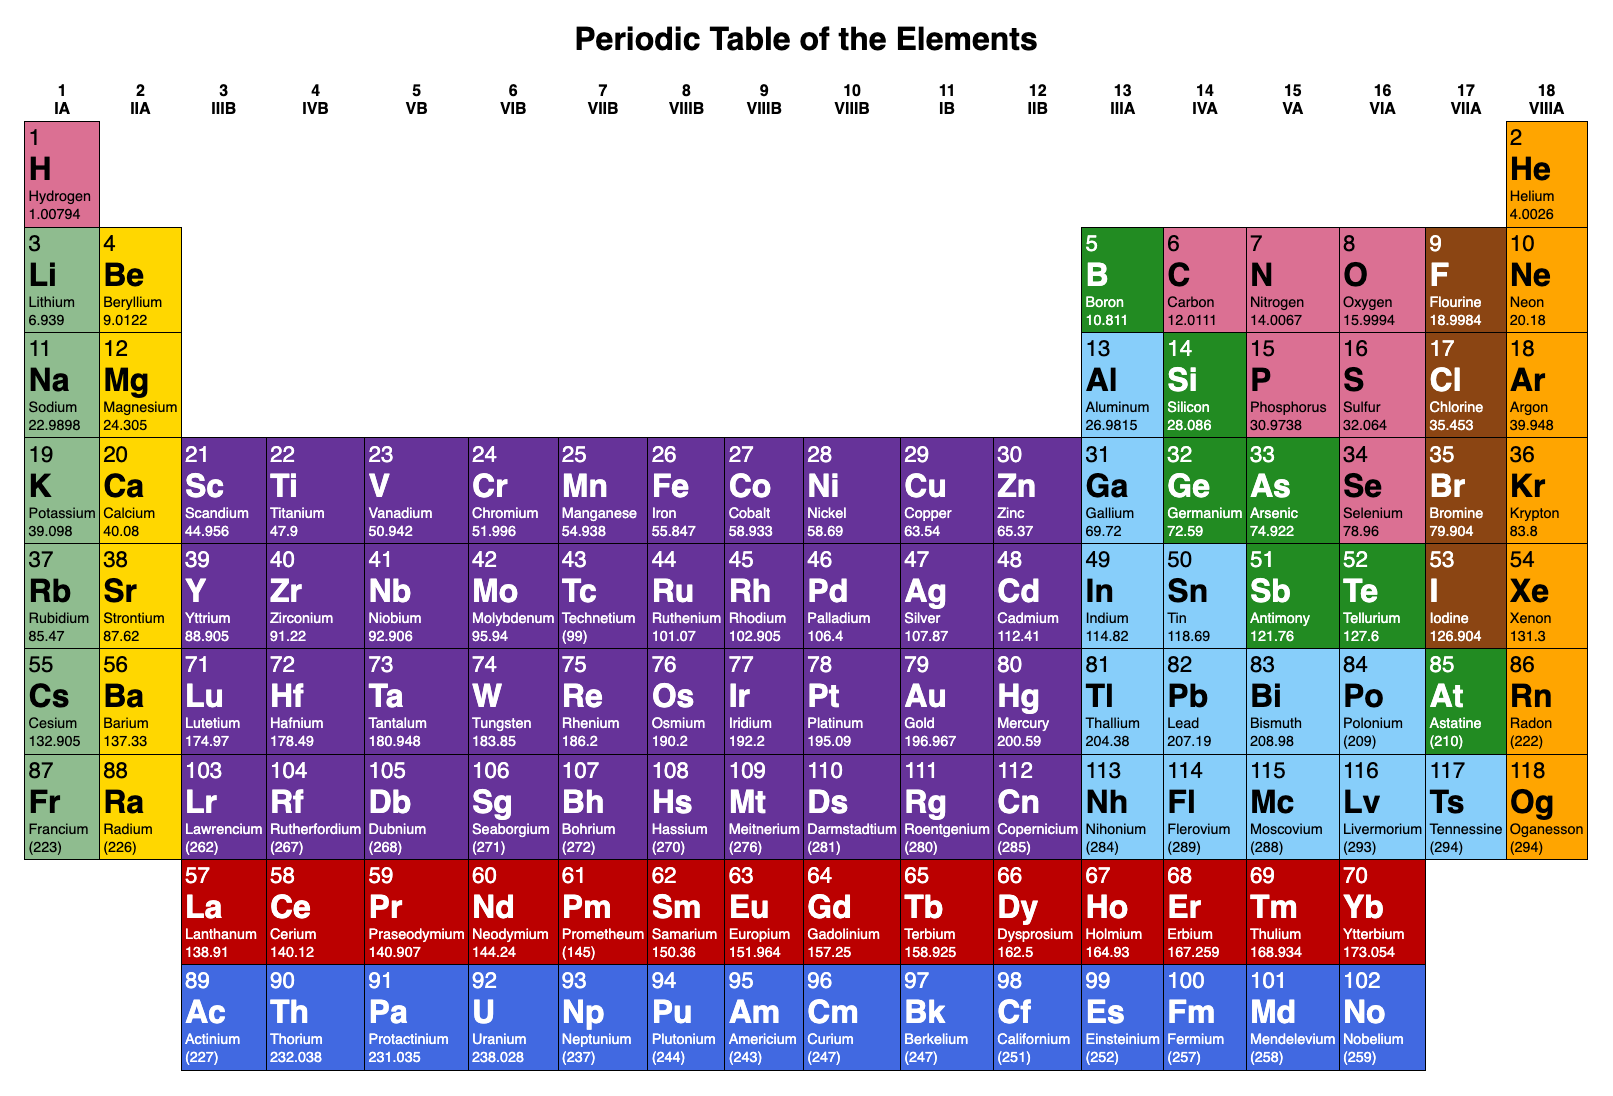
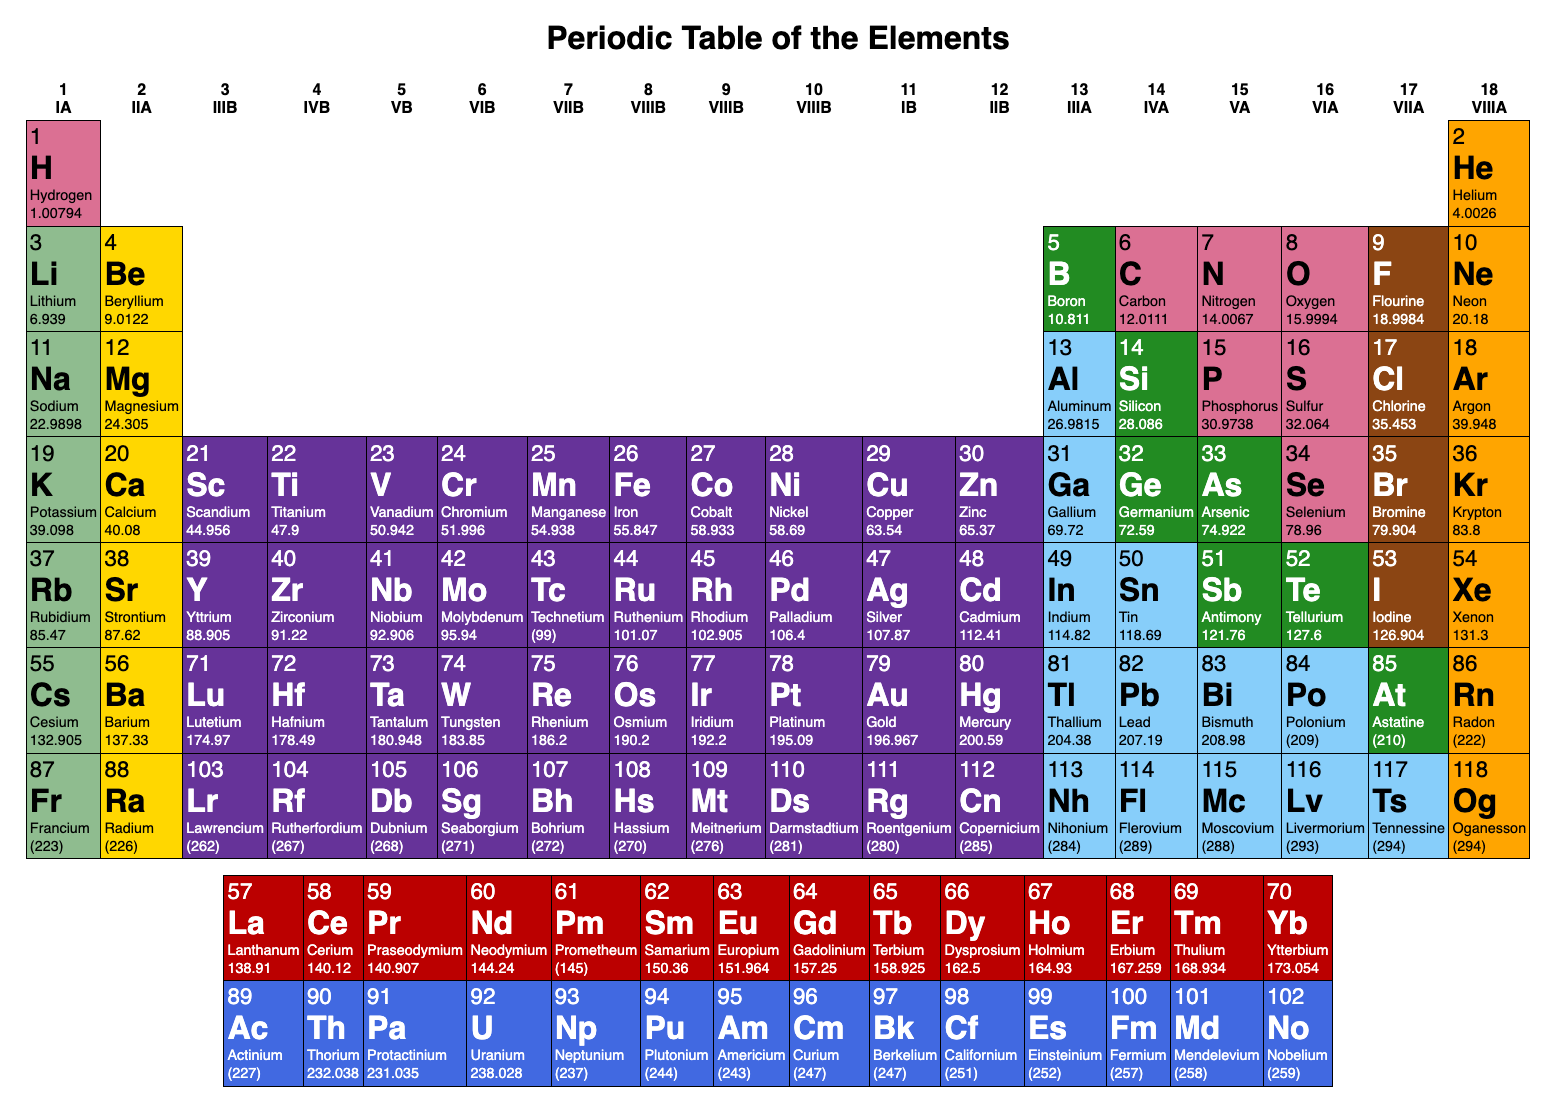
Show lanthanides & actinides in a separate table.

diff --git a/client/index.js b/client/index.js
@@ -248,10 +248,9 @@ class Elements {
             const min = bounds['min'];
             const max = bounds['max'];
             let tr = '';
-            let protons = min; // The atomic number of the element.
             let gapCount = 1;
 
-            for (protons = min; protons <= max;) {
+            for (let protons = min; protons <= max;) {
                 let td = '';
                 let tdClass = '';
 
@@ -281,9 +280,35 @@ class Elements {
             }
 
             html += `<tr>${tr}</tr>`;
+
+            if (period === 7) {
+                break;
+            }
         }
 
         html += '</tbody></table>';
+
+        html += '<table class="rare-earth elements"><tbody>';
+
+        for (const [period, bounds] of Elements.periods) {
+            if (period !== 'lanthanides' && period !== 'actinides') {
+                continue;
+            }
+
+            const min = bounds['min'];
+            const max = bounds['max'];
+            let tr = '';
+
+            for (let protons = min; protons <= max;) {
+                const td = Elements.formatElement(protons, true);
+                protons++;
+
+                tr += `<td>${td}</td>`;
+            }
+
+            html += `<tr>${tr}</tr>`;
+        }
+
         html += '</section>';
 
         return html;

diff --git a/client/main.css b/client/main.css
@@ -14,12 +14,11 @@ h1 {
     text-align: center;
 }
 
-section {
+section.element {
     display: flex;
     justify-content: center;
     gap: 2rem;
 }
-
 section.element article {
     display: inline-block;
     font-size: 5rem;
@@ -108,6 +107,10 @@ td.empty {
 .actinide {
     background: royalblue;
     color: white;
+}
+
+.rare-earth {
+    margin-top: 1rem;
 }
 
 td a,
